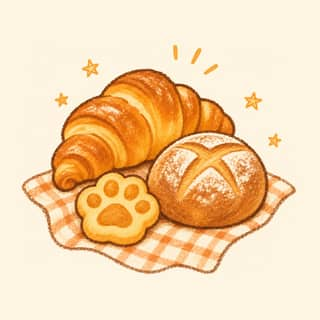
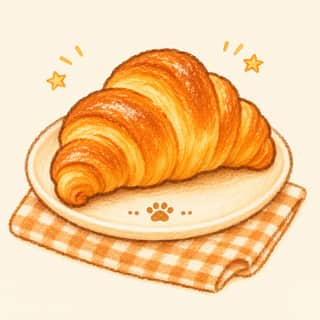
feat: prepare complete category catalog and croissant illustration

diff --git a/tests/catalog-products.test.js b/tests/catalog-products.test.js
@@ -1,0 +1,21 @@
+const test=require('node:test'),assert=require('node:assert/strict'),fs=require('node:fs');
+const products=require('../source-assets/cozy/catalog-products.json'),domain=require('../cloudfunctions/shop/domain'),studio=require('../cloudfunctions/shop/studio');
+const {coverage}=require('../scripts/catalog-coverage.cjs');
+test('发布商品清单覆盖全部 12 个细类，13 件商品的图片存在且未混入测试商品',()=>{
+ assert.equal(products.length,13);assert.ok(coverage(products).every(r=>r.status==='齐全'));
+ for(const p of products){assert.ok(!/样例|勿销售/.test(p.name));assert.ok(fs.existsSync('miniprogram'+p.image));}
+});
+for(const product of products)for(const type of studio.isCoffee(product)?['PICKUP']:['PICKUP','DELIVERY'])test(product.name+'：本地模拟下单、付款及'+(type==='PICKUP'?'自提':'发货收货')+'闭环',()=>{
+ let state=domain.seed();state.products=structuredClone(products);
+ const buyer={id:'local-catalog-buyer'},merchant={id:'local-merchant',merchant:true},now=Date.UTC(2026,10,3,4);
+ const run=(actor,action,input={})=>{const out=domain.execute(state,actor,action,input,{mock:true,now});state=out.state;return out.result;};
+ const address=run(buyer,'saveAddress',{name:'本地测试',phone:'13800000000',detail:'测试地址测试路 1 号'});
+ const sku=product.skus[0],lines=[{productId:product.id,skuId:sku.id,qty:1}];
+ if(studio.isCoffee(product))assert.throws(()=>run(buyer,'quoteOrder',{lines,fulfillment:'DELIVERY',addressId:address.id}),/仅支持到店自提/);
+ const order=run(buyer,'createOrder',{key:'local-'+product.id+'-'+type,lines,fulfillment:type,addressId:address.id,contact:{name:'本地测试',phone:'13800000000'}});
+ run(buyer,'mockPay',{id:order.id});
+ if(type==='PICKUP'){run(merchant,'pickupReady',{id:order.id});run(merchant,'pickupComplete',{id:order.id,confirm:true});}
+ else{run(merchant,'ship',{id:order.id,carrier:'shunfeng',number:'LOCAL123456'});run(buyer,'confirmReceipt',{id:order.id});}
+ assert.equal(run(buyer,'order',{id:order.id}).status,'COMPLETED');
+ assert.equal(state.products.find(p=>p.id===product.id).skus[0].stock,sku.stock-1);
+});

diff --git a/tests/catalog-coverage.test.js b/tests/catalog-coverage.test.js
@@ -1,0 +1,12 @@
+const test=require('node:test'),assert=require('node:assert/strict');
+const {coverage}=require('../scripts/catalog-coverage.cjs');
+const product=(extra={})=>({name:'通用食碗',category:'用品',petScope:'通用',active:true,image:'/assets/bowl-v3.jpg',skus:[{price:2500,stock:1}],...extra});
+test('分类覆盖检查区分草稿、售罄、缺图和可售，通用商品同时覆盖猫狗',()=>{
+ const rows=coverage([product(),product({name:'咖啡草稿',category:'咖啡',active:false}),product({name:'售罄面包',category:'烘焙',skus:[{price:1200,stock:0}]}),product({name:'猫粮无图',category:'主粮',petScope:'猫咪',image:''})]);
+ assert.equal(rows.length,12);
+ assert.equal(rows.find(r=>r.category==='咖啡').status,'缺少上架商品');
+ assert.equal(rows.find(r=>r.category==='烘焙').status,'无可售库存');
+ assert.equal(rows.find(r=>r.category==='主粮'&&r.pet==='猫咪').status,'缺少商品图');
+ for(const pet of ['猫咪','狗狗'])assert.equal(rows.find(r=>r.category==='用品'&&r.pet===pet).status,'齐全');
+ assert.equal(rows.find(r=>r.category==='主粮'&&r.pet==='狗狗').active,0);
+});

diff --git a/docs/CATALOG-COVERAGE-2026-11-03.md b/docs/CATALOG-COVERAGE-2026-11-03.md
@@ -1,0 +1,16 @@
+# 细分类商品准备与本地验证
+
+本地清单 `source-assets/cozy/catalog-products.json` 包含 13 件商品，覆盖咖啡、烘焙，以及猫咪/狗狗的主粮、零食、玩具、清洁、用品共 12 个细类。原有 12 件商品沿用本轮读取时的名称、价格和库存；黄油可颂按用户授权定为 12 元/只、库存 20 只，使用新生成的独立可颂插画。用户改变为仅本地操作前，该可颂已经由商家接口保存至云端，ID 为 p50；此后停止云端操作。
+
+清单是本地测试与复核材料，库存只是读取时的快照，不会在部署时覆盖数据库。上传小程序更新本地图片与页面，不会创建或重置云端商品。清单排除测试用的 0.01 元样例猫粮；本轮未操作它的云端上架状态。
+
+检查命令：
+
+```powershell
+node scripts/catalog-coverage.cjs source-assets/cozy/catalog-products.json
+node --test tests/catalog-coverage.test.js tests/catalog-products.test.js tests/catalog-preparation.test.js
+```
+
+逐商品测试在内存副本中完成，不连接云端，不扣真实库存，不进行微信付款：13 件商品全部验证自提闭环，10 件宠物用品另验证配送、发货和收货闭环；咖啡、烘焙验证拒绝快递配送。配图存在性、各细类上架/库存/图片覆盖也纳入测试。
+
+插画原稿：`source-assets/cozy/croissant.png`；运行图：`miniprogram/assets/catalog-bakery.jpg`。生成提示词和工具记录见 `COZY-ILLUSTRATION-THEME.md`。运行资源维持瘦身尺寸，原稿和商品清单均不在小程序运行目录内。

diff --git a/docs/COZY-ILLUSTRATION-THEME.md b/docs/COZY-ILLUSTRATION-THEME.md
@@ -12,6 +12,10 @@
 
 压缩再生成：`node scripts/cozy-assets.cjs`。脚本只读取本地原图，不发起图像生成请求。
 
+2026-11-03 上传包瘦身后，运行图片约 0.56 MiB；此前的 0.95 MB 为最初验收体积。细分类补齐时新增 `source-assets/cozy/croissant.png`，用作 `catalog-bakery.jpg`；原面包组合原稿保留。生成使用内置 imagegen，参考原烘焙图风格。提示词：方形商品插画，一只金黄黄油可颂放在带小爪印的奶油色陶瓷盘上，焦糖格纹餐巾与两颗小星星；暖奶油纸底、彩铅蜡笔颗粒、深可可不规则轮廓、绘本风，主体居中占七成，无文字、价格、品牌和水印。
+
+分类检查：`node scripts/catalog-coverage.cjs <merchantProducts.json>`，检查咖啡、烘焙以及猫狗各五类的上架商品、库存和配图；发现缺口时返回非零退出码。历史商品快照只能用于准备，不能据此声称当前云端齐全。
+
 ## 字体与样式
 
 标题使用 ZCOOL KuaiLe（站酷快乐体）的 UI 字符子集，以 WOFF2 内嵌在 WXSS 中，无需远程字体服务。价格、商品名称、正文、订单号码保持常规清晰字体；新增且未收录的标题字符会回退到系统字体。
